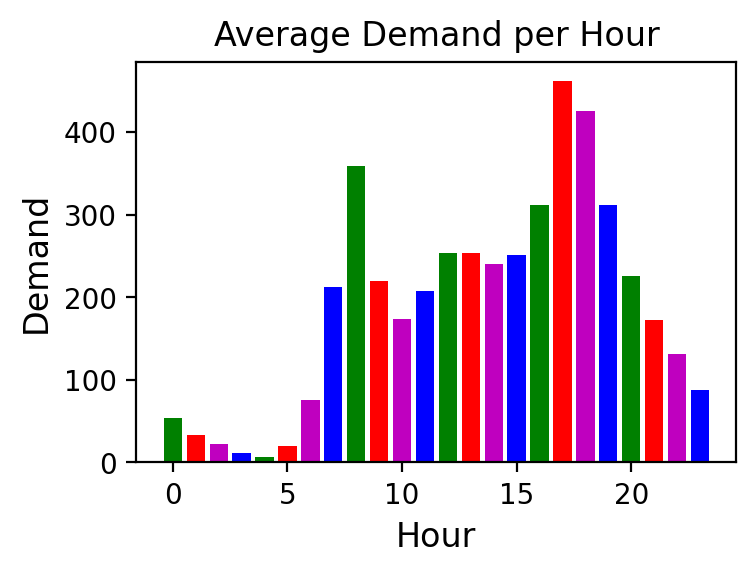
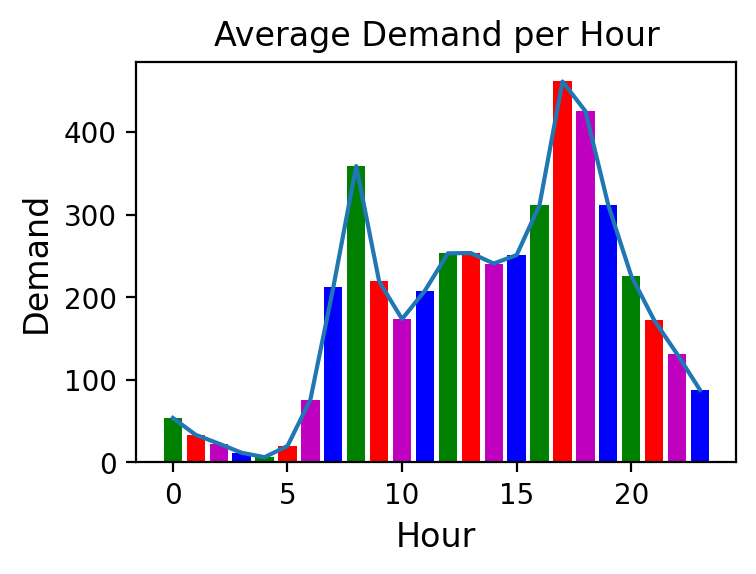
hours plot

diff --git a/bikes_analysis.py b/bikes_analysis.py
@@ -27,6 +27,12 @@ colors = ['g', 'r', 'm', 'b']
 print(bikes_prep.columns.values[:-5])
 
 
+plt.title('Average Demand per Weeks day')
+
+cat_list = bikes_prep['weekday'].unique()
+cat_average = bikes_prep.groupby('weekday').mean()['cnt']
+
+plt.plot(cat_list, cat_average)
 
 
 for i in range(len(bikes_prep.columns.values[:-5]) - 1):
